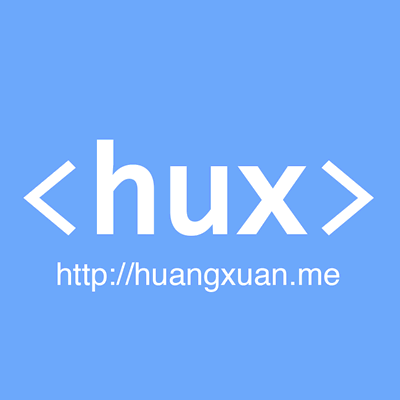
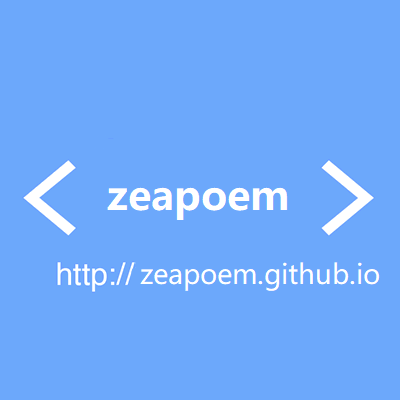
verify

Changed region(s): [[0.24, 0.33, 0.78, 0.6], [0.33, 0.66, 0.96, 0.75]]

diff --git a/_includes/footer.html b/_includes/footer.html
@@ -9,7 +9,7 @@
                 <p class="copyright text-muted">
                     Copyright &copy; {{ site.title }} {{ site.time | date: '%Y' }}
                     <br>
-                    Powered by <a href="http://huangxuan.me">Hux Blog</a> |
+                    Powered by <a href="http://zeapoem.github.io">Zeapoem Blog</a> |
                     <iframe
                         style="margin-left: 2px; margin-bottom:-5px;"
                         frameborder="0" scrolling="0" width="100px" height="20px"
